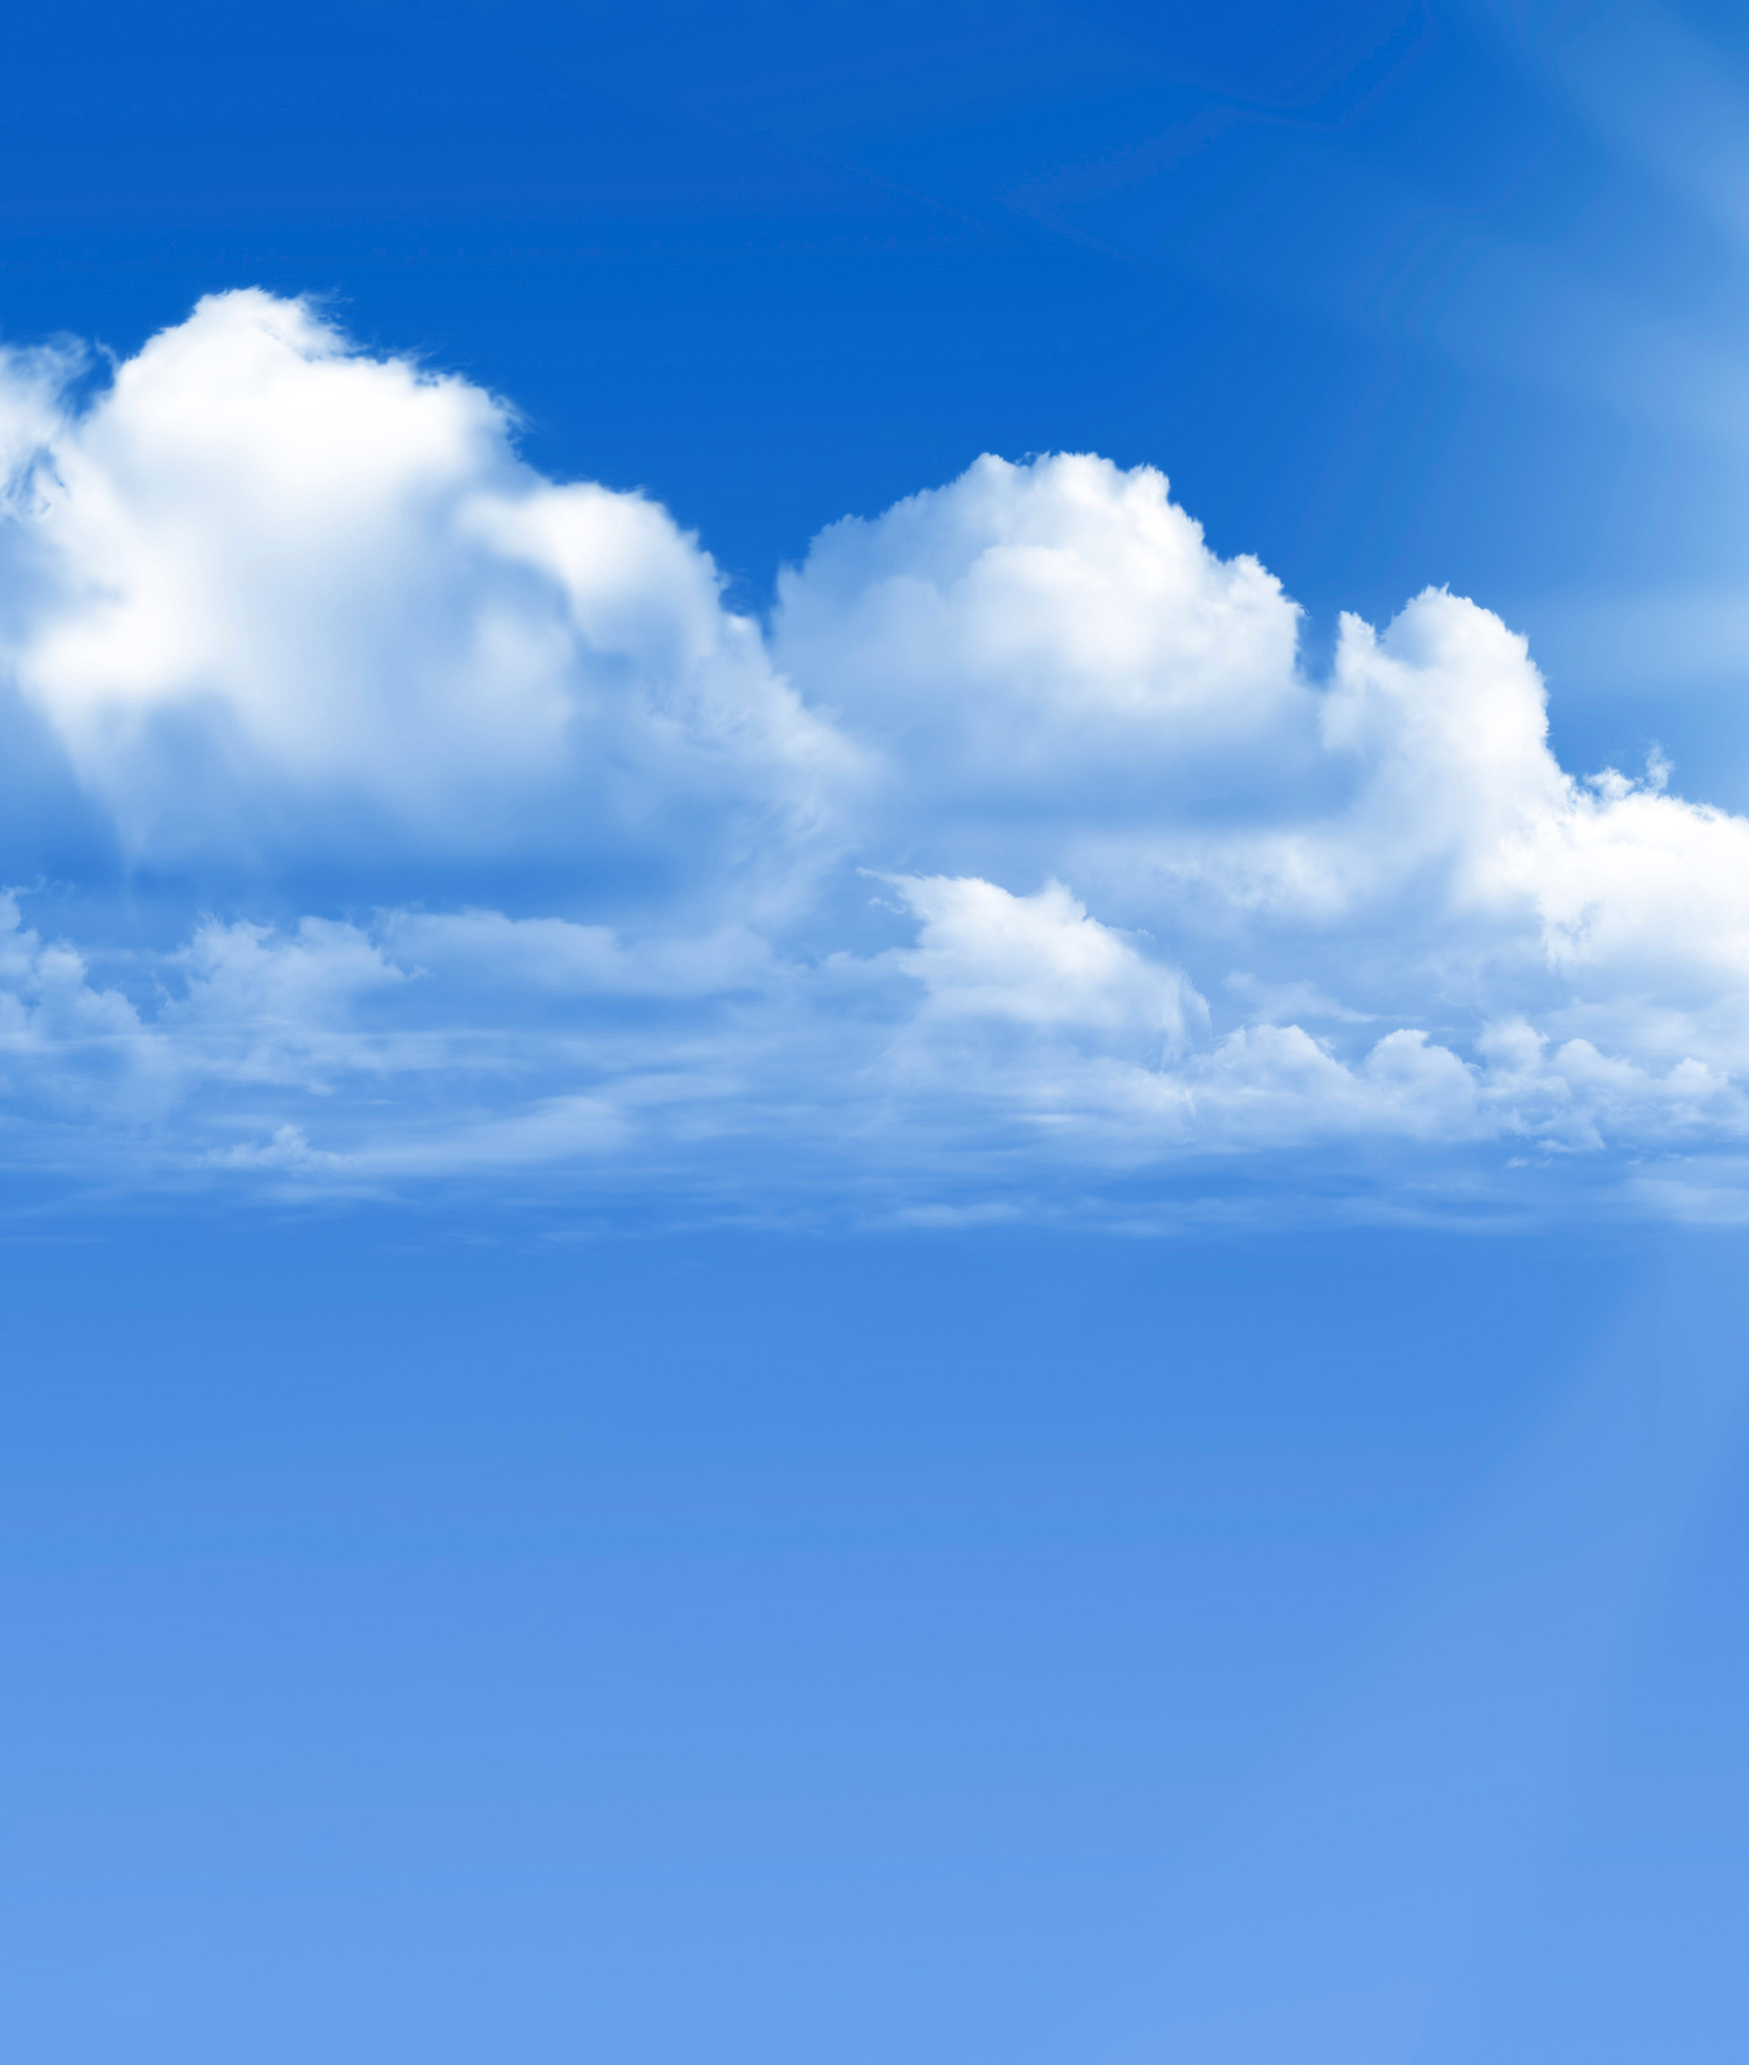
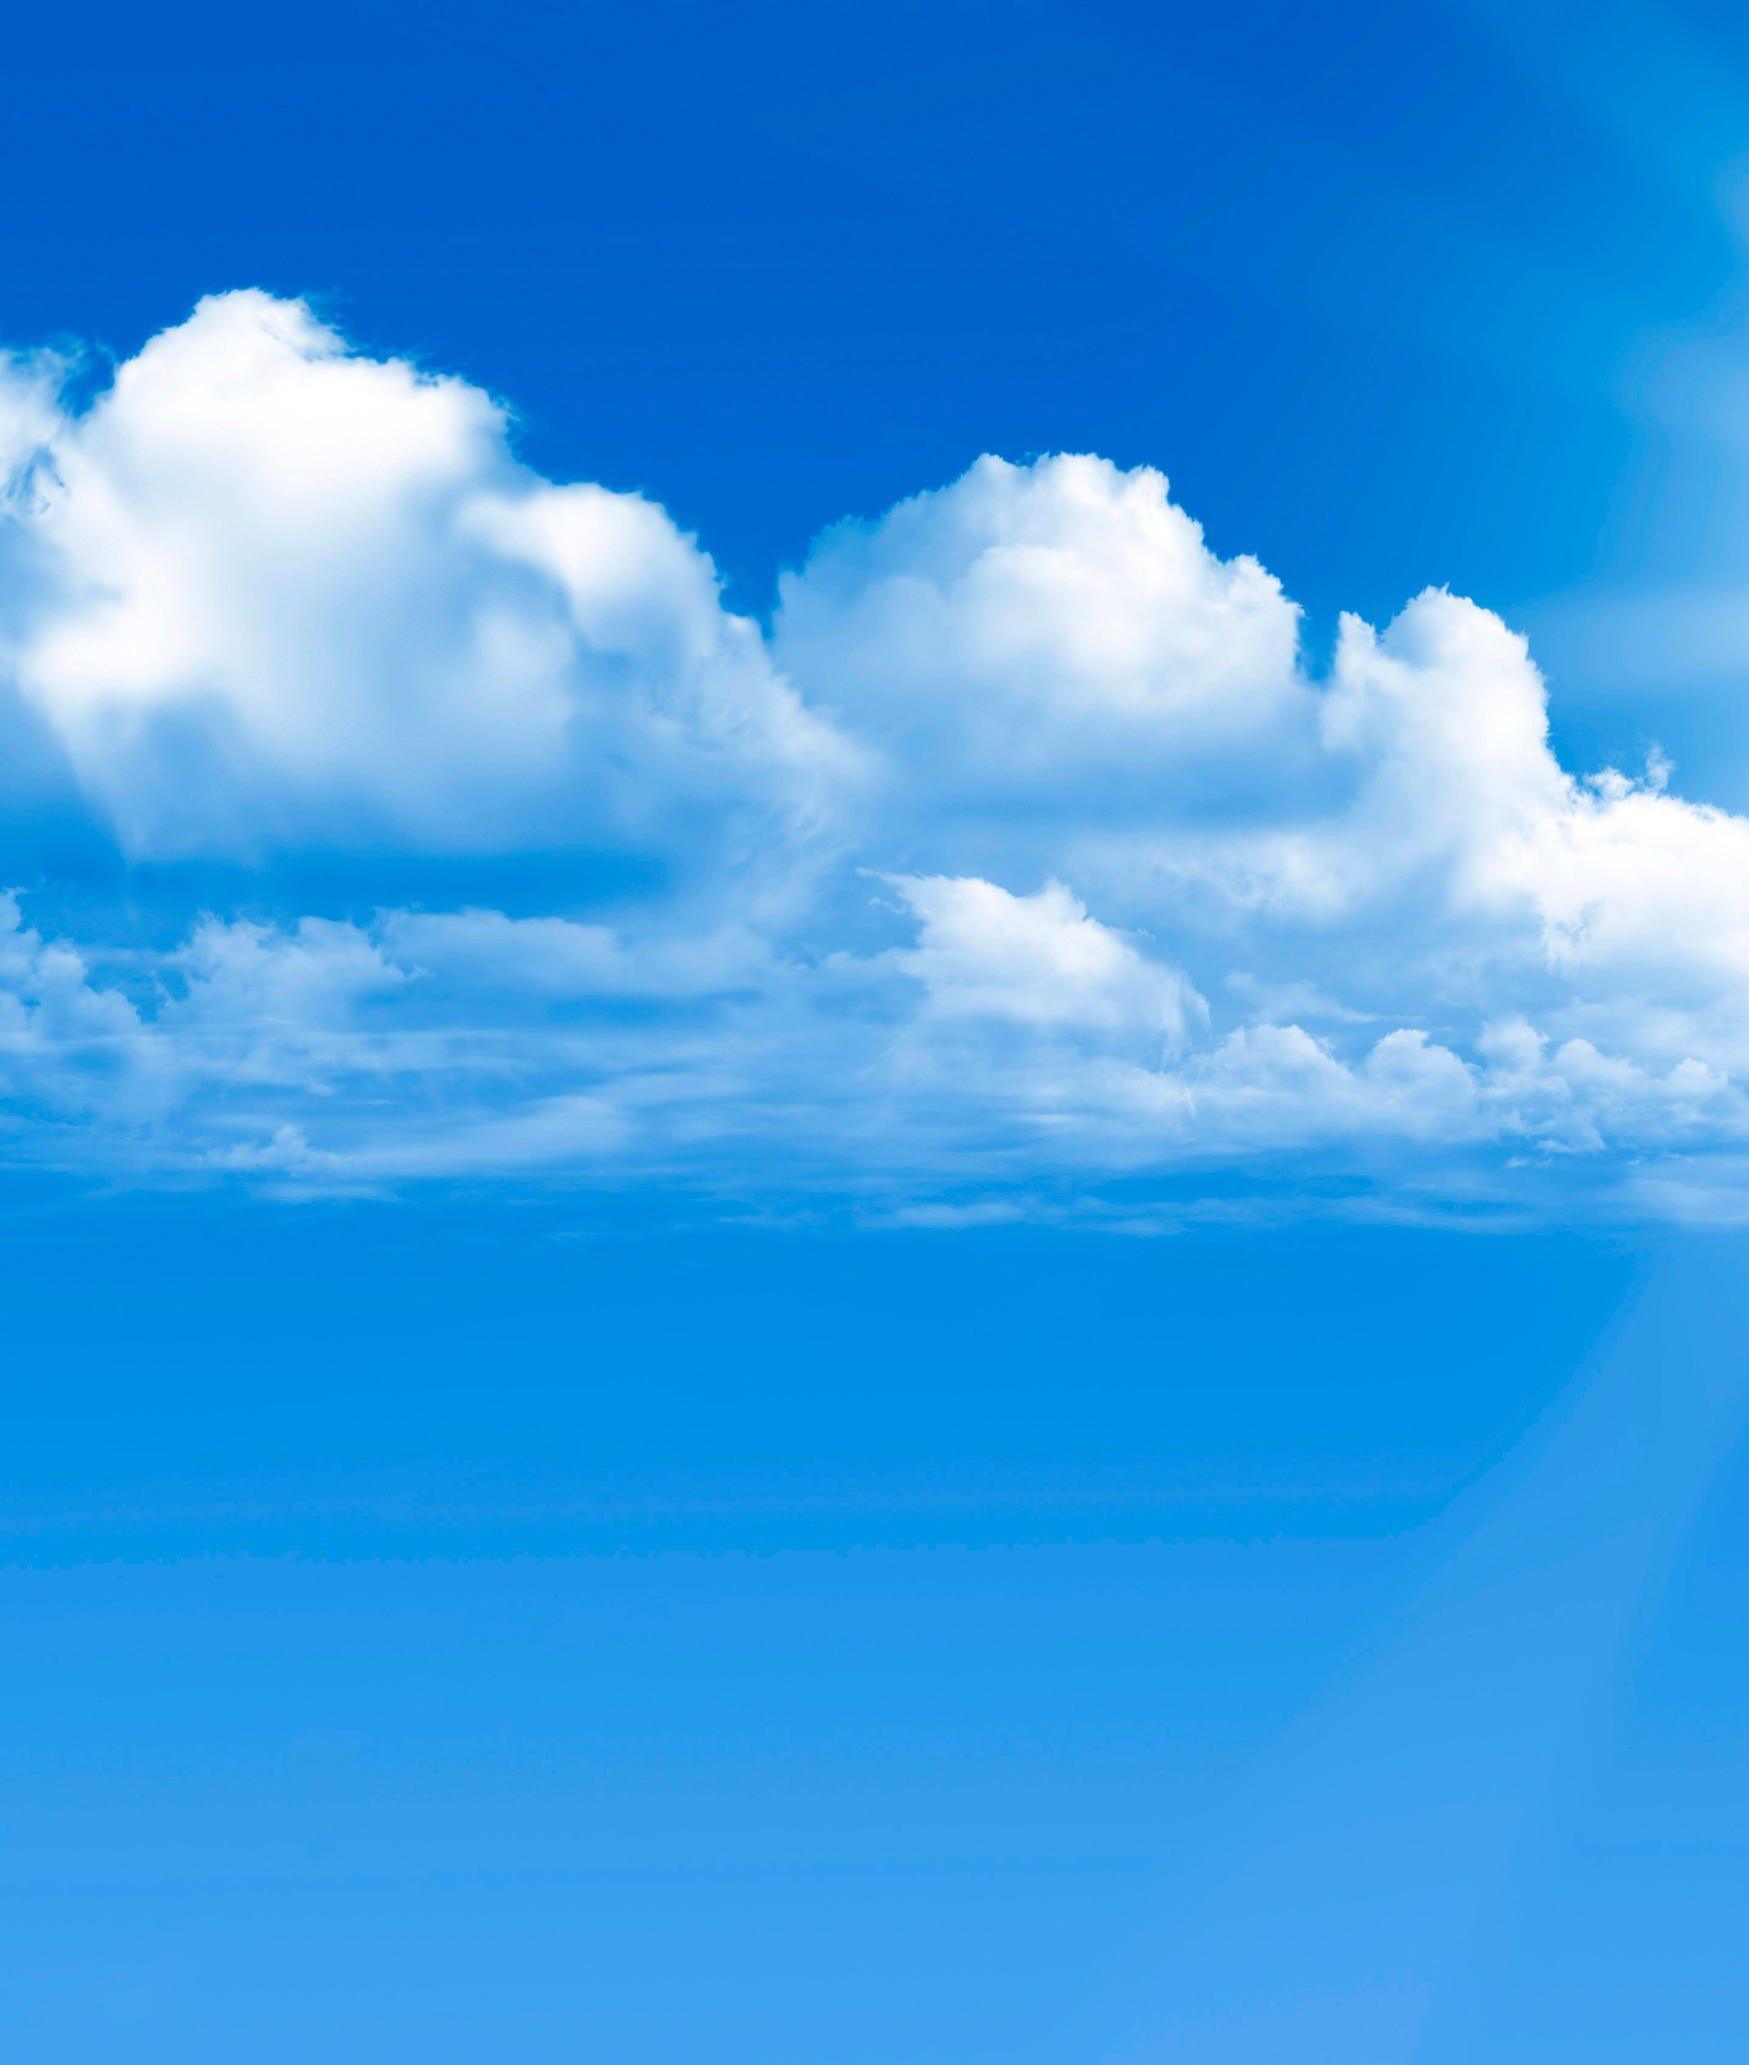
bg issues

diff --git a/css/beautiful-sky.css b/css/beautiful-sky.css
@@ -13,9 +13,9 @@
 
 html {
   min-width: 240px;
-  background-image:url(../images/sky-background2.png);
-  background-repeat: none;
-  background-color: #769ce5;
+  background-image:url(../images/sky-background.jpg);
+  background-repeat: no-repeat;
+  background-color: #5a98e1;
   font: normal 125%/1.4 Georgia, serif;
 }
 
